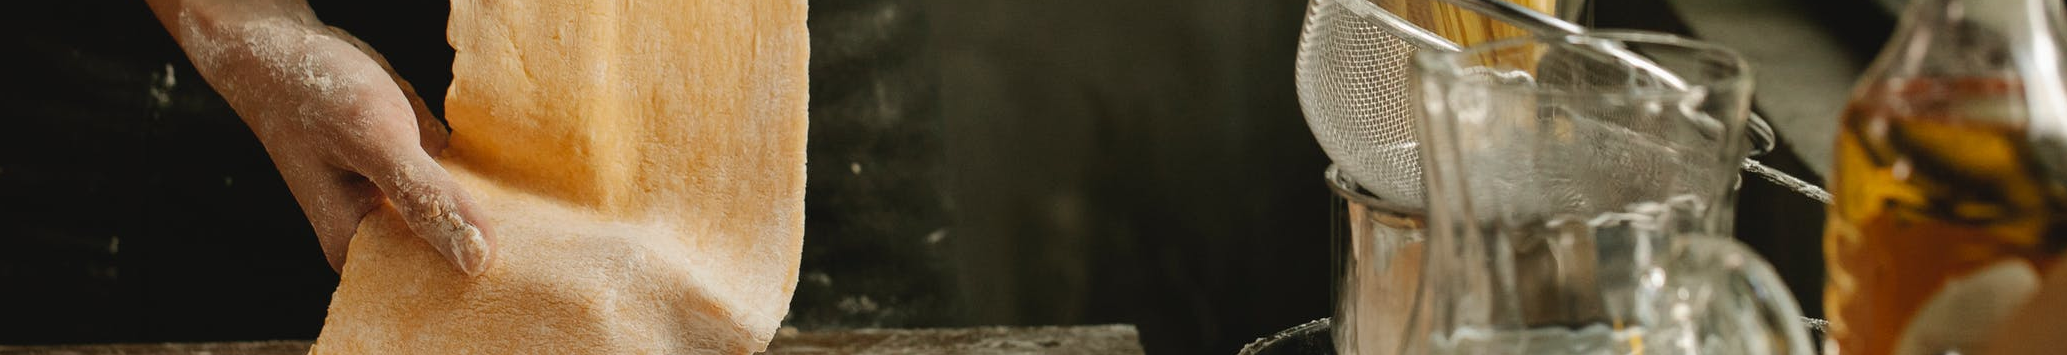
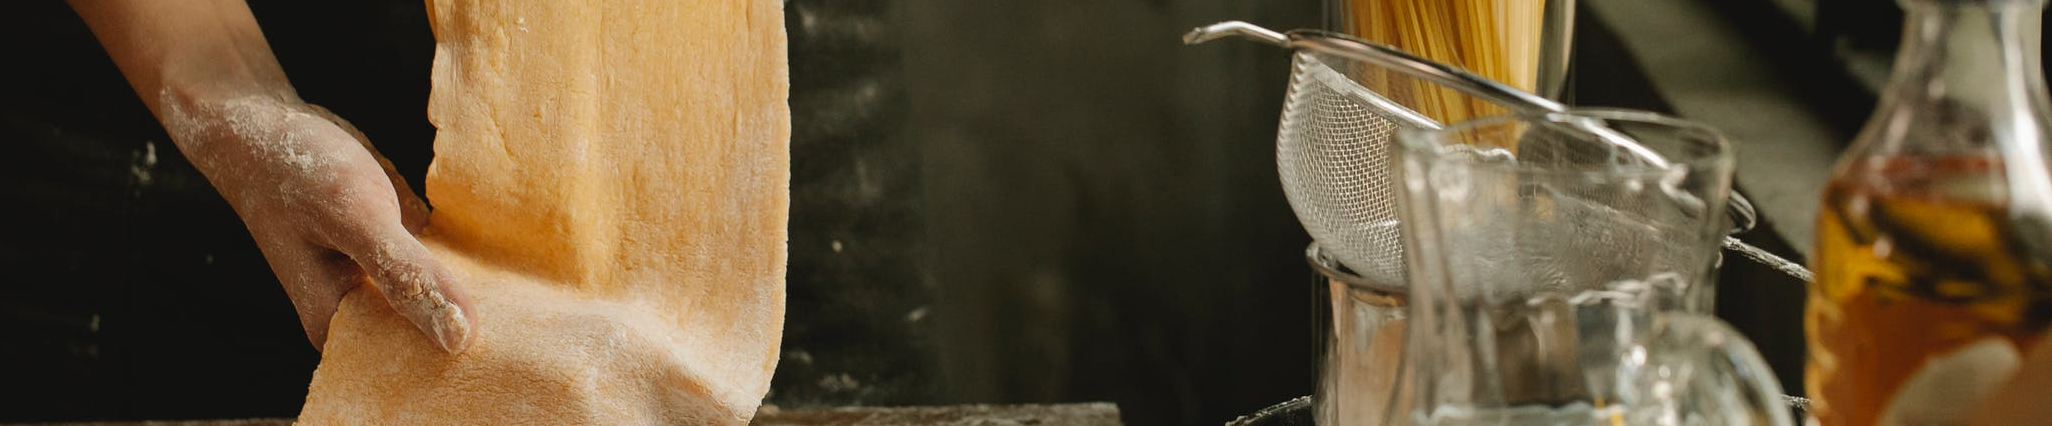
resample background image and tweak

diff --git a/assets/css/style.css b/assets/css/style.css
@@ -126,3 +126,17 @@ header ul{
     padding-top: 20px;
     padding-bottom: 50px;
 }
+
+/* Custom breakpoints for Why Belltini background image */
+@media screen and (min-width:704px){
+    .why-belltini-container{
+        background: linear-gradient( rgba(0, 0, 0, 0.5), rgba(0, 0, 0, 0.4) ), url(../images/why-belltini-bg-md.png) no-repeat center center;
+        background-size: 100%;
+    }
+}
+@media screen and (min-width:992px){
+    .why-belltini-container{
+        background: linear-gradient( rgba(0, 0, 0, 0.5), rgba(0, 0, 0, 0.4) ), url(../images/why-belltini-bg-lg.png) no-repeat center center;
+        background-size: 100%;
+    }
+}
